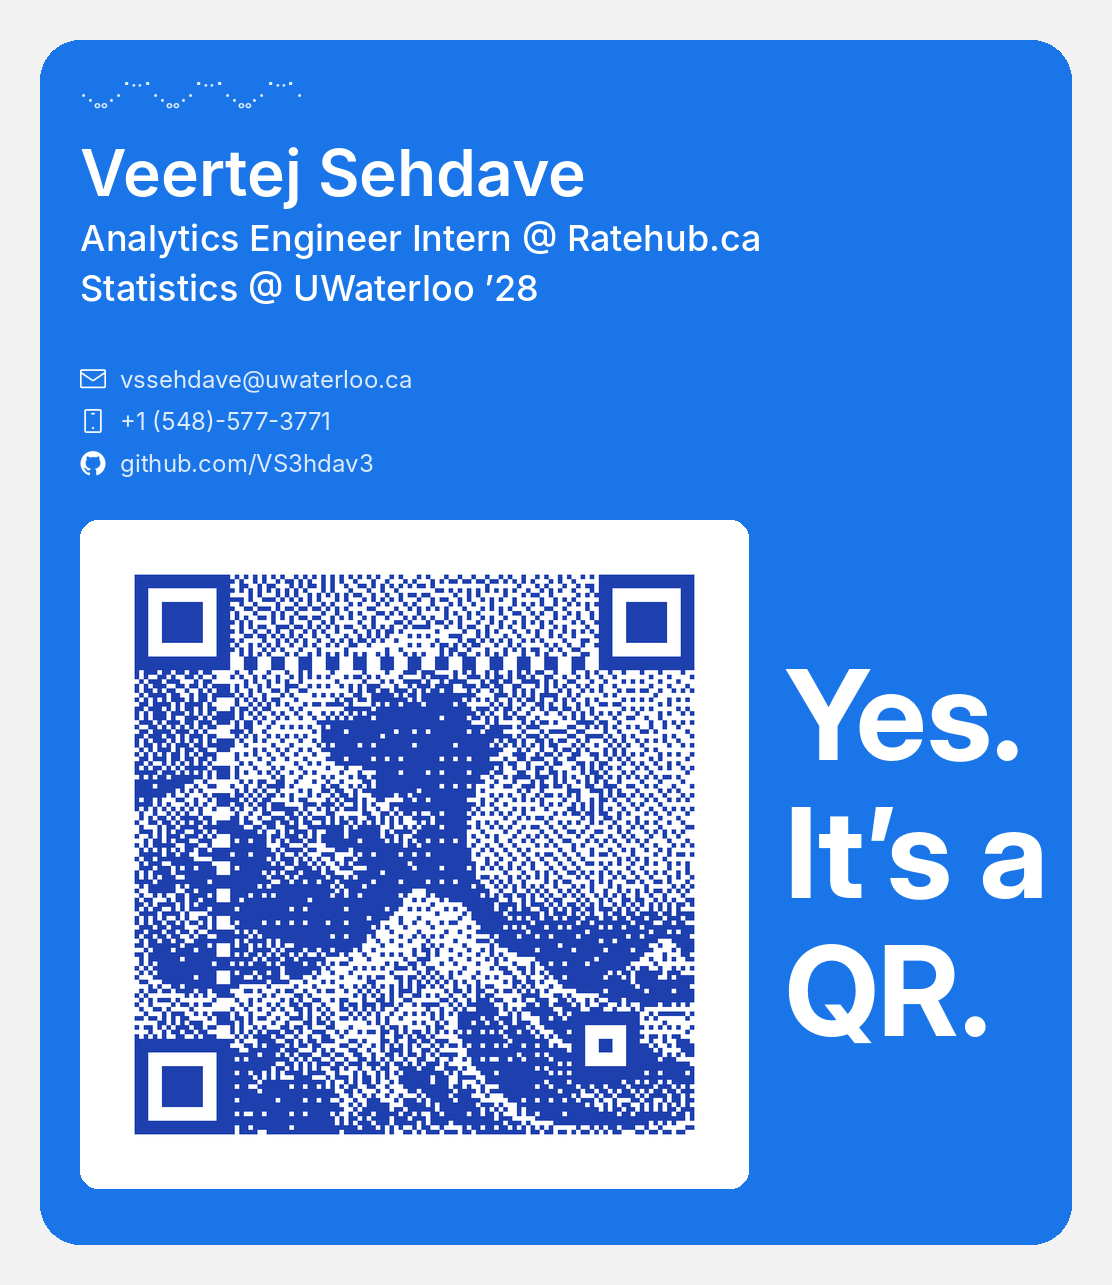
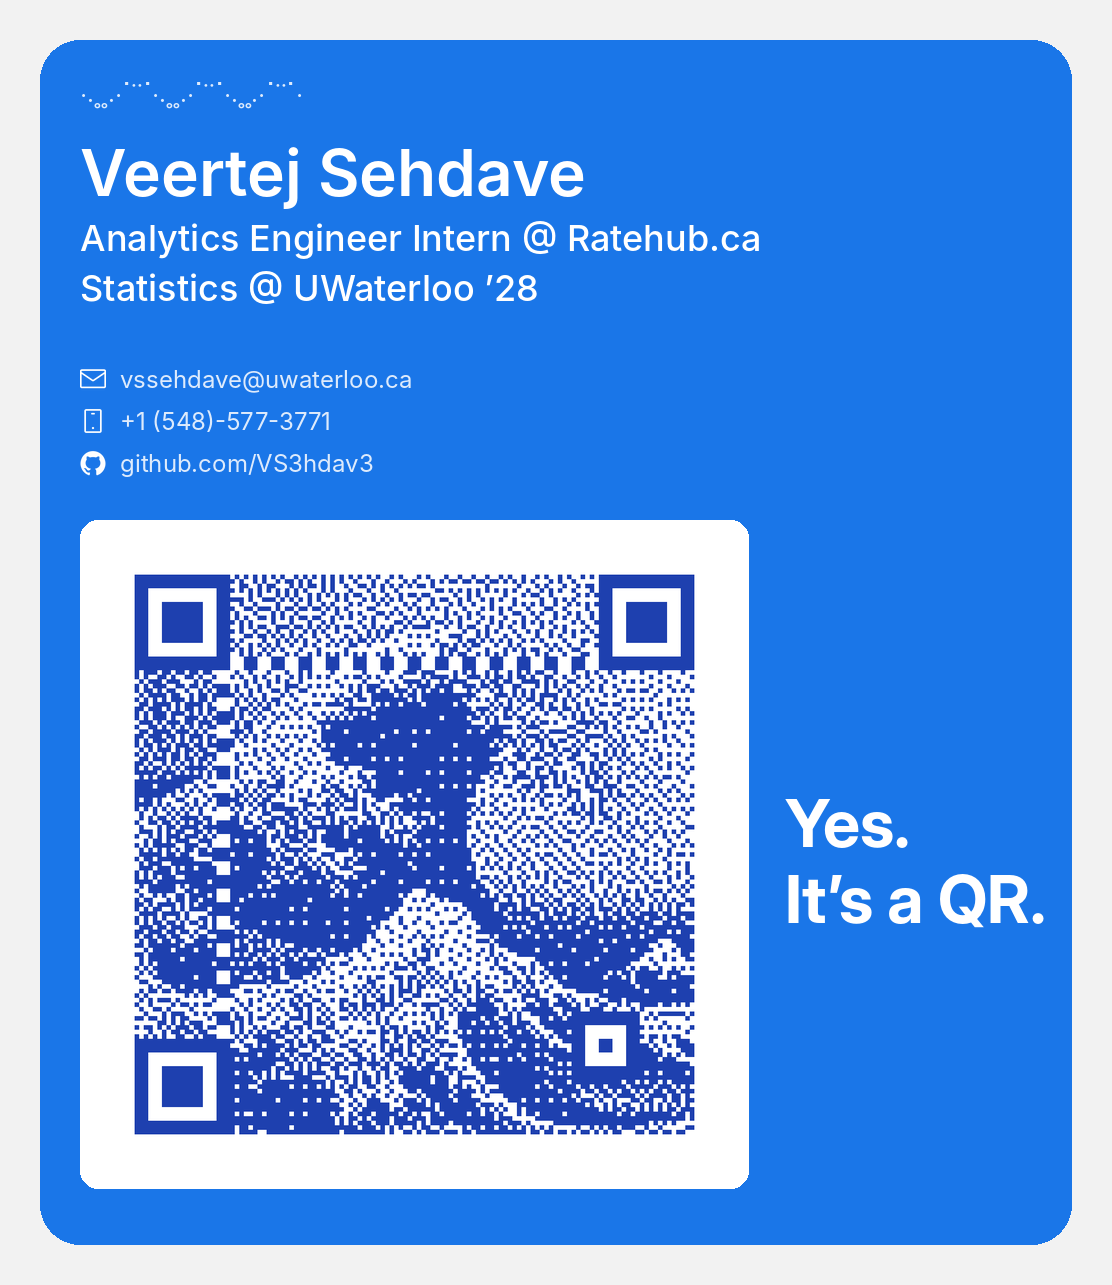
fix(hero): go back to the two-line tagline
The three-line tagline at the largest size crowded the QR. Restore
"Yes." / "It's a QR." shrunk to fit beside it, and bump the object
ID to v7 so a saved pass picks up the change.

Changed region(s): [[0.7032, 0.6226, 0.9478, 0.8093], [0.7032, 0.4981, 0.9173, 0.5914]]

diff --git a/scripts/make_assets.py b/scripts/make_assets.py
@@ -28,7 +28,7 @@ CONTACTS = [
     ("phone", "+1 (548)-577-3771"),
     ("github", "github.com/VS3hdav3"),
 ]
-TAGLINE = ("Yes.", "It’s a", "QR.")   # one line each
+TAGLINE = ("Yes.", "It’s a QR.")
 CARD_TITLE = "⋅.˳˳.⋅ॱ˙˙ॱ⋅.˳˳.⋅ॱ˙˙ॱ⋅.˳˳.⋅ॱ˙˙ॱ⋅"   # keep in sync with create_pass.py
 
 # Inter has no glyph for some of the title's symbols, so the preview falls back
@@ -121,14 +121,12 @@ def build_hero() -> Image.Image:
     ImageDraw.Draw(mask).rounded_rectangle((0, 0, size - 1, size - 1), radius=18, fill=255)
     hero.paste(qr, (PAD_X, y), mask)
 
-    # Tagline at the largest size where its widest line fits beside the QR,
-    # one line per entry, centred vertically against the QR.
+    # The tagline shrinks to fit the space the bigger QR leaves beside it.
     tx = PAD_X + size + TAG_GAP
-    tag_font = fit_font("InterDisplay-Bold", TAGLINE, W - tx - TAG_MARGIN, start=200)
-    line_h = round(tag_font.size * 1.1)
-    first = y + size / 2 - line_h * len(TAGLINE) / 2 + tag_font.size * 0.9
-    for i, line in enumerate(TAGLINE):
-        d.text((tx, first + i * line_h), line, font=tag_font, fill=WHITE, anchor="ls")
+    tag_font = fit_font("InterDisplay-Bold", TAGLINE, W - tx - TAG_MARGIN)
+    line_h, mid = round(tag_font.size * 1.15), y + size / 2
+    d.text((tx, mid - line_h * 0.1), TAGLINE[0], font=tag_font, fill=WHITE, anchor="ls")
+    d.text((tx, mid + line_h * 0.9), TAGLINE[1], font=tag_font, fill=WHITE, anchor="ls")
 
     return hero.convert("RGB")
 

diff --git a/scripts/create_pass.py b/scripts/create_pass.py
@@ -35,7 +35,7 @@ PHONE_E164 = "+15485773771"
 PHONE_DISPLAY = "+1 (548)-577-3771"
 BG_HEX = "#1A76E8"
 CLASS_SUFFIX = "personal_qr_card"
-OBJECT_SUFFIX = "veertej_sehdave_v6"   # bump to issue a fresh pass; Wallet caches by ID
+OBJECT_SUFFIX = "veertej_sehdave_v7"   # bump to issue a fresh pass; Wallet caches by ID
 
 # Google requires a non-empty cardTitle (the small top-row text above the
 # name). Blank or whitespace-only values are rejected as an empty LocalizedString.
